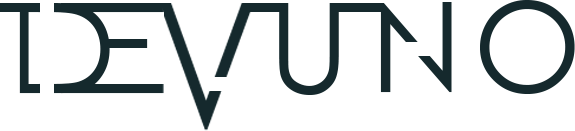
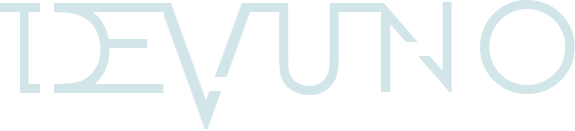
Starting
Starting a JS button reference to CSS events.
   Used to darken the theme of the overall page.

Changed region(s): [[0.0, 0.0, 0.7391, 1.0], [0.8278, 0.0, 1.0, 0.7328], [0.7096, 0.0, 0.7983, 0.7023]]

diff --git a/DevUno Website/src/index.html b/DevUno Website/src/index.html
@@ -8,11 +8,14 @@
         <link href="https://fonts.googleapis.com/css?family=Raleway" rel="stylesheet">
     </head>
 
-    <header class="mainHeader">
+    <header id="mainHeader">
         <!-- Header Image inside div -->
         <div class="headerImage">
-            <img class="headerLogo"src="Images/dev_noName.png" alt="">
+            <img class="headerLogoLight"src="Images/dev_noName.png" alt="">
+            <img class="headerLogoDark" src="Images/dev_noName_dark.png" alt="">
         </div>
+
+        <button onclick="changeHeaderColor" id="themeButton">THIS IS A button</button>
 
         <hr>
         <!-- Header Tabs  -->
@@ -24,4 +27,7 @@
             <li><a href="#">Contact</a></li>
         </ul>
     </header>
+
+    <script src="themeswitcher.js"type="text/javascript">
+    </script>
 </html>

diff --git a/DevUno Website/src/home.css b/DevUno Website/src/home.css
@@ -5,13 +5,14 @@ html{
 }
 
 /*This is the section for the Header elements*/
-.mainHeader{
+#mainHeader{
     background-color: rgb(242, 242, 242);
     left: 0px;
     top: 0px;
     position: fixed;
     width: 100%;
     height: 125px;
+    transition: background-color .8s;
 }
 .headerImage{
     display: block;
@@ -20,10 +21,24 @@ html{
     width: 10%;
     height: 100px;
 }
-.headerLogo{
+.headerLogoLight{
     width: 150px;
     top: 20px;
-    position: relative;
+    position: absolute;
+    opacity: 100;
+}
+
+.headerLogoDark{
+    width: 150px;
+    top: 20px;
+    position: absolute;
+    opacity: 0;
+}
+
+#themeButton{
+    position: absolute;
+    top: 25px;
+    right: 10%;
 }
 
 hr{

diff --git a/DevUno Website/src/themeswitcher.js b/DevUno Website/src/themeswitcher.js
@@ -1,0 +1,6 @@
+var headerColor = document.getElementById('mainHeader');
+var buttonChange = document.getElementById('themeButton')
+
+function changeHeaderColor() {
+    headerColor.style.backgroundColor = rgb(249, 89, 82);
+}
